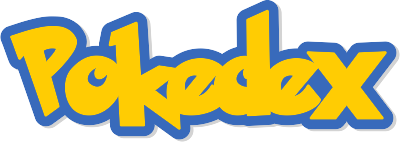
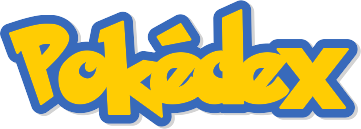
add: Error message fix and typos

diff --git a/index.html b/index.html
@@ -5,7 +5,7 @@
     <meta charset="UTF-8">
     <meta http-equiv="X-UA-Compatible" content="IE=edge">
     <meta name="viewport" content="width=device-width, initial-scale=1.0">
-    <title>Pokedex</title>
+    <title>Pokdex</title>
     <link rel="preconnect" href="https://fonts.googleapis.com">
     <link rel="preconnect" href="https://fonts.gstatic.com" crossorigin>
     <link href="https://fonts.googleapis.com/css2?family=Press+Start+2P&family=Secular+One&display=swap"
@@ -26,7 +26,7 @@
         </nav>
     </header>
     <main>
-        <section class="pokedex">
+        <section class="pokedex" id="pokedex">
             <img src="./assets/pokedex.png" alt="logo pokedex" id="logo-pokedex">
             </div>
             <div class="pkmn_search" onsubmit="fetchPokemon()">
@@ -80,15 +80,15 @@
                     <ul>
                         <li><a href="#">FAQs</a></li>
                         <li><a href="#">Soporte</a></li>
-                        <li><a href="#">Contactanos</a></li>
+                        <li><a href="#">Contáctanos</a></li>
                     </ul>
                 </div>
             </div>
         </div>
         <div class="footer-terms">
             <ul>
-                <li><a href="#">Terminos y condiciones</a></li>
-                <li><a href="#">Politica de privacidad</a></li>
+                <li><a href="#">Términos y condiciones</a></li>
+                <li><a href="#">Política de privacidad</a></li>
             </ul>
             <a href="https://github.com/RicAlc" class="footer-terms-dev">RICARDO ALCALÁ CASTRO</a>
         </div>

diff --git a/script.js b/script.js
@@ -7,7 +7,8 @@ const fetchPokemon = () => {
     fetch(url_1).then((res) => {
         if (res.status != "200") {
             console.log(res);
-            pokeImage("/assets/sad.gif")
+            //Envia datos de error
+            error();
         }
         else {
             return res.json();
@@ -45,10 +46,9 @@ const fetchPokemon = () => {
     fetch(url_2).then((res) => {
         if (res.status != "200") {
             console.log(res);
-            pokeImage("/assets/sad.gif")
         }
         else {
-            console.log(res)
+            console.log(res);
             return res.json();
         }
         
@@ -118,7 +118,12 @@ const pokemonDescription = (url_2) => {
     let newElement = document.createElement("p");
     newElement.appendChild(desc_text);
     newElement.classList.add("description-text");
-    document.getElementById("desc-text-container").appendChild(newElement)
+    document.getElementById("desc-text-container").appendChild(newElement);
 }
-
-
+function error(){
+    document.getElementById("tipos").innerHTML = "";
+    pokemonImg("./assets/missingno.png");
+    pokemonStats([0,0,0,0,0,0]);
+    pokemonData(["Error", "??", "??","??"]);
+    pokemonDescription("Vaya, parece que no encontramos lo que buscas. Asegurate de escribir correctamente el nombre o el ID.");
+}

diff --git a/data.js b/data.js
@@ -89,5 +89,5 @@ var tipos = [
     trad:"HADA", 
     color:"#f0b6bc"
     },
-]
+];
 
